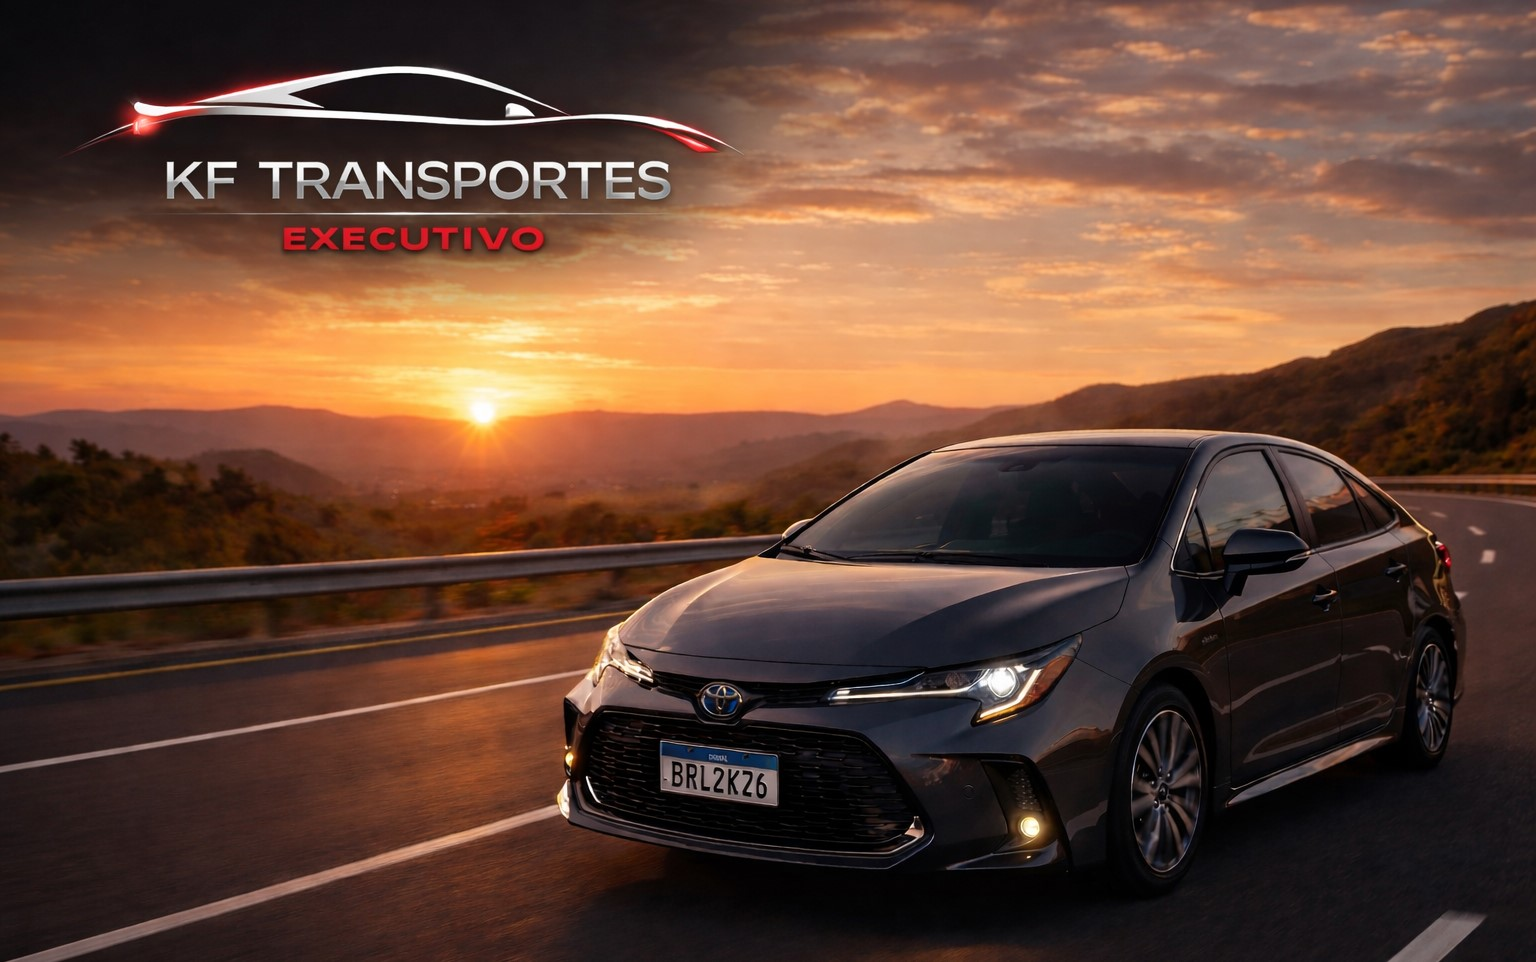
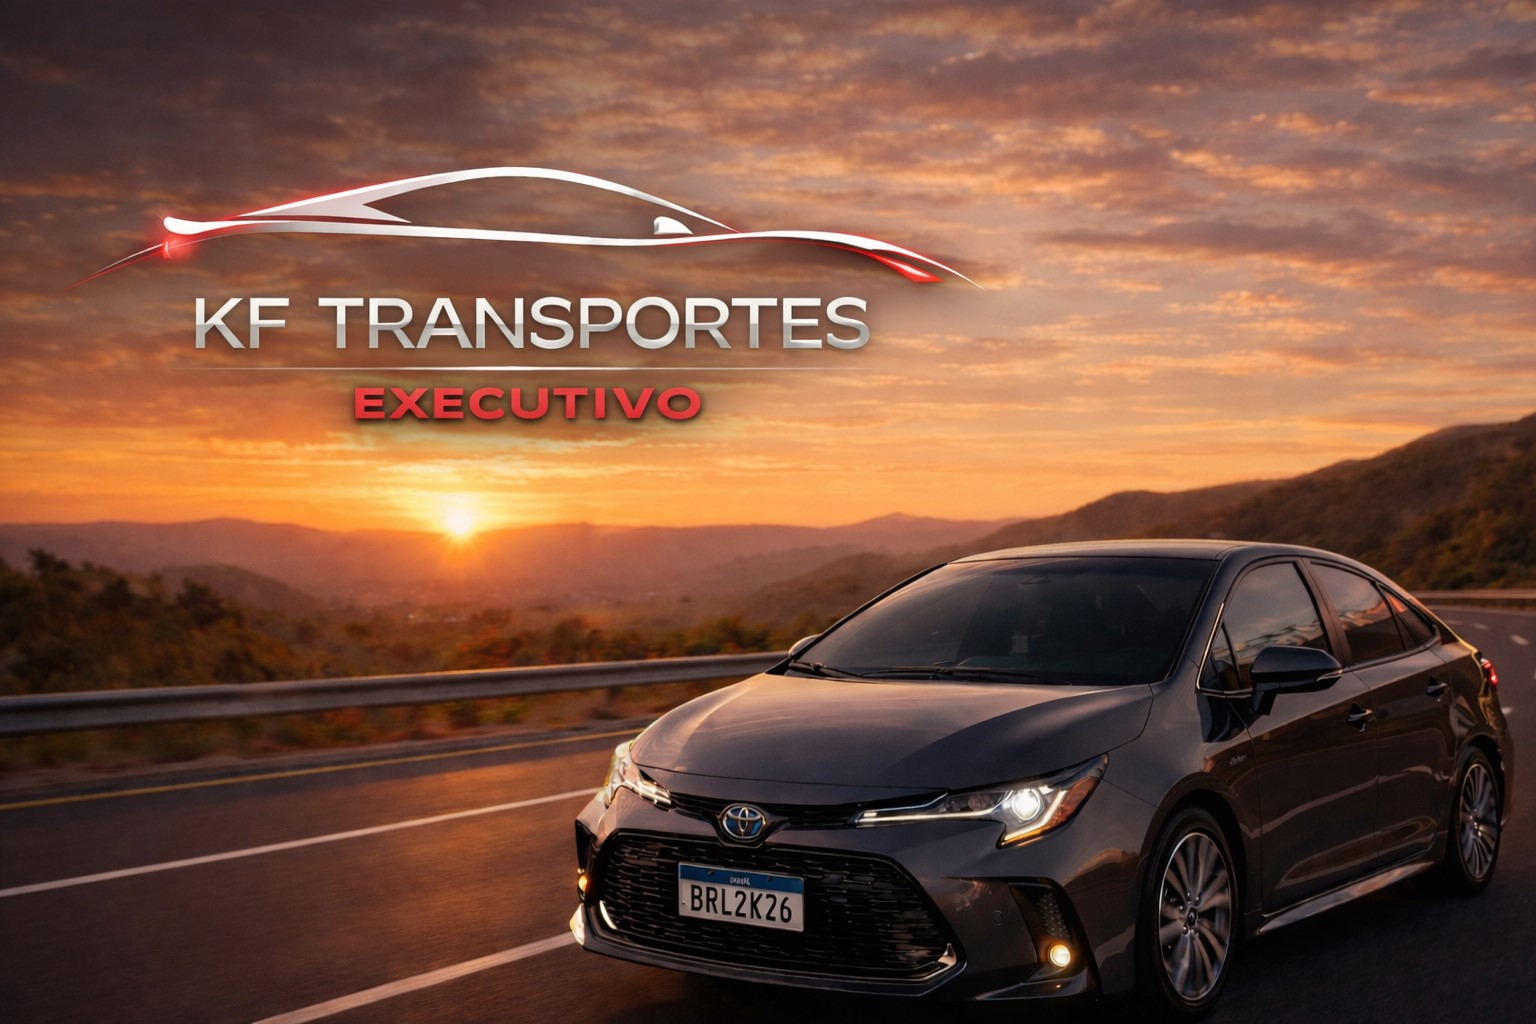
css ok

diff --git a/style.css b/style.css
@@ -123,7 +123,7 @@ nav.active {
 
 .hero{
 background-image:url("assets/hero-estrada.jpg");
-background-size:30%;
+background-size:90%;
 background-position:center;
 height:550px;
 display:flex;
